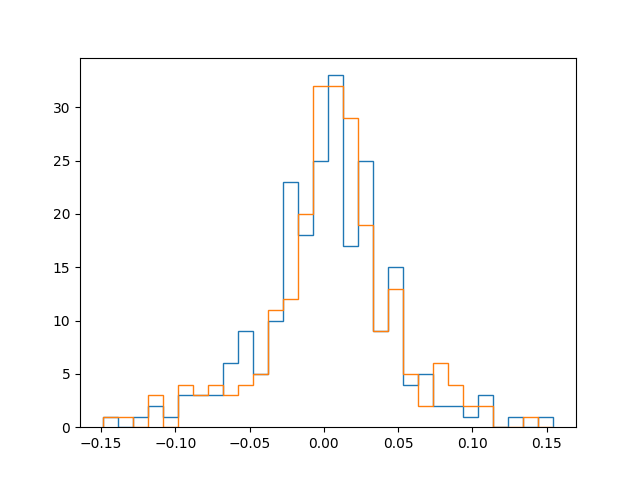
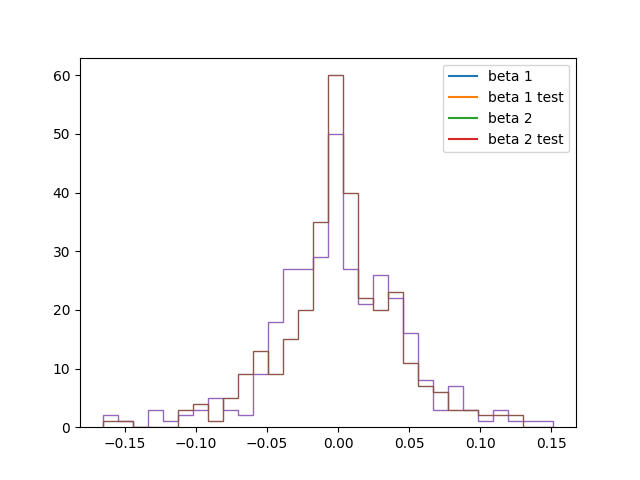
messed it up
should probably revert

diff --git a/CAPM Event Time WRDS Cloud/main.py b/CAPM Event Time WRDS Cloud/main.py
@@ -1,3 +1,4 @@
+#import total_market_trades_old as total_market_trades
 import total_market_trades
 import datetime
 import numpy as np
@@ -14,7 +15,7 @@ from scipy.stats import ttest_ind
 
 
 start_date = '1990-01-01'
-end_date = '2021-12-31'
+end_date = '2019-12-31'
 
 risk_free = pd.read_csv('rf daily rate.csv')
 risk_free = risk_free[(risk_free['date'] >= start_date) & (risk_free['date'] <= end_date)]
@@ -36,7 +37,7 @@ def calculate_beta(y, x):
 def fetch_stock_data(start_date, end_date):
     # Define the pickle file path
     pickle_file = 'stock_data.pickle'
-    num_stocks = 500 #should be 500 later
+    num_stocks = 100 #should be 500 later
 
     # Prepare the query
     query = f"""
@@ -73,8 +74,7 @@ def fetch_stock_data(start_date, end_date):
     SELECT 
         dsf.date, 
         dsf.permno, 
-        dsf.ret,
-        dsf.shrout * dsf.prc as market_cap
+        dsf.ret
     FROM 
         crsp.dsf as dsf
     JOIN 
@@ -92,13 +92,14 @@ def fetch_stock_data(start_date, end_date):
             # Check if the saved query matches the current query
             if saved_query == query:
                 print("Loading data from saved file.")
+                print(saved_data['data'])
                 return saved_data['data']
 
     # If no saved file or query doesn't match, execute the new query
     db = wrds.Connection(wrds_username='humzahm')
     data = db.raw_sql(query)
     data['ret'] = data['ret'].fillna(0)
-    print(data[data.isna().any(axis=1)])
+    #data['market_cap'] = data['market_cap'].fillna(1) #this might be bad
     print(data)
     # Save the new query and data to pickle
     with open(pickle_file, 'wb') as f:
@@ -125,6 +126,7 @@ def calculate_monthly_returns(stock_data, sp500_data, risk_free_rate_data, date_
         stock_data_permno = stock_data[stock_data['permno'] == permno]
 
         permno_dates = stock_data_permno['date']
+        #print(permno_dates)
         first_date_permno = permno_dates.min()
         last_date_permno = permno_dates.max()
 
@@ -148,11 +150,18 @@ def calculate_monthly_returns(stock_data, sp500_data, risk_free_rate_data, date_
                     'equity_returns_range1': [monthly_return1], 
                     'equity_returns_range2': [monthly_return2],
                     'sp500_return_range1': [sp500_return1],
-                    'sp500_return_range2': [sp500_return2],
-                    'market cap': [np.nanmean(filtered_stock_data1['market_cap'])]
+                    'sp500_return_range2': [sp500_return2]
                 })
                 final_results = pd.concat([final_results, row], ignore_index=True)
-
+            # else:
+            #     print("skipping")
+            #     print(start1)
+            #     print(end1)
+            #     print(start2)
+            #     print(end2)
+            #     print(first_date_permno)
+            #     print(last_date_permno)
+            #     print("-------------------")
     return final_results
 
 def calculate_kurtosis_skew(final_results):
@@ -190,6 +199,9 @@ def calculate_kurtosis_skew(final_results):
     print(f"Average Skew for Range 2: {avg_skew_range2}")
     print(f"T-statistic for Kurtosis: {t_stat_kurtosis}, P-value for Kurtosis (One Tailed): {p_value_kurtosis/2}")
     print(f"T-statistic for Skew: {t_stat_skew}, P-value for Skew (One Tailed): {p_value_skew/2}")
+
+def calculate_beta_NP(y, x):
+    return np.polyfit(x, y, 1)[0]
 
 def calculate_beta(y, x):
     y = np.array(y)
@@ -229,50 +241,63 @@ def calculate_betas_and_price_of_beta(monthly_returns):
     monthly_returns['beta_range1'] = np.nan
     monthly_returns['beta_range2'] = np.nan
     counter = 1
+
+    beta_range1_graph, beta_range1_test_graph, beta_range2_graph, beta_range2_test_graph = [], [], [], []
+    
     for permno in unique_permnos:
         print(counter)
         counter += 1
         data_permno = monthly_returns[monthly_returns['permno'] == permno]
 
         # Calculate beta for each range
+        #print("range: " + str(len(data_permno)))
         for i in range(len(data_permno)):
             if i >= 60:
                 y_range1 = data_permno['equity_returns_range1'].iloc[i-60:i]
                 x_range1 = data_permno['sp500_return_range1'].iloc[i-60:i]
                 beta_range1 = calculate_beta(y_range1, x_range1)
+                # print(data_permno.index[i])
+                # print(i)
+                # print(monthly_returns.loc[data_permno.index[i]])
                 monthly_returns.loc[data_permno.index[i], 'beta_range1'] = beta_range1
+                # print(monthly_returns.loc[data_permno.index[i]])
 
                 y_range2 = data_permno['equity_returns_range2'].iloc[i-60:i]
                 x_range2 = data_permno['sp500_return_range2'].iloc[i-60:i]
                 beta_range2 = calculate_beta(y_range2, x_range2)
                 monthly_returns.loc[data_permno.index[i], 'beta_range2'] = beta_range2
     
+    plt.plot(beta_range1_graph, label="beta 1")
+    plt.plot(beta_range1_test_graph, label="beta 1 test")
+    plt.plot(beta_range2_graph, label="beta 2")
+    plt.plot(beta_range2_test_graph, label="beta 2 test")
+    plt.legend()
+    plt.savefig("beta.png")
     price_of_beta_range1, price_of_beta_range2 = [], []
 
-    monthly_returns_filtered = monthly_returns[monthly_returns['sequence #'] >= 61]
+    monthly_returns_filtered = monthly_returns[monthly_returns['sequence #'] >= 6]
     monthly_returns_filtered = monthly_returns_filtered.dropna(subset=['beta_range1', 'beta_range2'])
-    print(monthly_returns_filtered)
+    #print(monthly_returns_filtered)
     unique_sequences = monthly_returns_filtered['sequence #'].unique()
-    
+    #print("unique sequences: " + str(len(unique_sequences)))
     for seq in unique_sequences:
         data_seq = monthly_returns[monthly_returns['sequence #'] == seq].dropna(subset=['beta_range1', 'beta_range2'])
         
         # For range 1
         x_range1 = data_seq['beta_range1']
         y_range1 = data_seq['equity_returns_range1']
-        weights = data_seq['market cap']
-        #price_of_beta_1 = calculate_beta(y_range1, x_range1)
-        price_of_beta_1 = calculate_weighted_beta(y_range1, x_range1, weights)
+        #weights = data_seq['market cap']
+        price_of_beta_1 = calculate_beta(y_range1, x_range1)
+        #price_of_beta_1 = calculate_weighted_beta(y_range1, x_range1, weights)
         price_of_beta_range1.append(price_of_beta_1)
 
         # For range 2
         x_range2 = data_seq['beta_range2']
         y_range2 = data_seq['equity_returns_range2']
-        weights = data_seq['market cap']
-        #price_of_beta_2 = calculate_beta(y_range2, x_range2)
-        price_of_beta_2 = calculate_weighted_beta(y_range2, x_range2, weights)
+        #weights = data_seq['market cap']
+        price_of_beta_2 = calculate_beta(y_range2, x_range2)
+        #price_of_beta_2 = calculate_weighted_beta(y_range2, x_range2, weights)
         price_of_beta_range2.append(price_of_beta_2)
-
     avg_range1 = sum(price_of_beta_range1) / len(price_of_beta_range1)
     avg_range2 = sum(price_of_beta_range2) / len(price_of_beta_range2)
     
@@ -290,13 +315,15 @@ print("running")
 
 stocks = fetch_stock_data('1990-01-01', '2021-12-30')
 print("stocks fetched")
+print(stocks[stocks.isna().any(axis=1)])
 
 monthly_day_ranges, event_month_ranges = total_market_trades.get_event_month_blocks()
 print("ranges calculated")
 
 monthly_returns = calculate_monthly_returns(stocks, market_returns, risk_free, monthly_day_ranges, event_month_ranges)
 print("monthly returns calculated")
-print(monthly_returns)
+#print(monthly_returns)
+print(monthly_returns[monthly_returns.isna().any(axis=1)])
 
 calculate_kurtosis_skew(monthly_returns)
 calculate_betas_and_price_of_beta(monthly_returns)

diff --git a/CAPM Event Time WRDS Cloud/total_market_trades_old.py b/CAPM Event Time WRDS Cloud/total_market_trades_old.py
@@ -61,17 +61,12 @@ def symmetric_smoothing(series, window, method='average'):
     return results
 
 def get_event_month_blocks():
-    start_date_data = '1987-01-01'
-    start_date = '1990-01-01'
-    end_date_data = '2021-12-30'
-    end_date = '2019-12-31'
-
     STOCK_NAME = "Market"
 
-    sql_query = f"""
+    sql_query = """
     SELECT date, SUM(NUMTRD) AS "total daily trades" 
     FROM crsp.dsf
-    WHERE date BETWEEN '{start_date_data}' AND '{end_date_data}'
+    WHERE date BETWEEN '1989-01-01' AND '2022-12-30'
     GROUP BY date
     ORDER BY date;
     """
@@ -83,21 +78,22 @@ def get_event_month_blocks():
     data = data[data["total daily trades"] > 1]
 
     data['month'] = data['date'].dt.strftime('%Y-%m')
-    data['year'] = data['date'].dt.strftime('%Y')
-    data['monthly avg trade'] = data.groupby("month")['total daily trades'].transform('mean')
+    #data['monthly avg trade'] = data.groupby("month")['total daily trades'].transform('mean')
+
+    #print(data)
 
     # Applying the function to a single column of the DataFrame
-    window_size = 1512  # Change this value as needed
+    window_size = 1008  # Change this value as needed
     data['trading moving average'] = symmetric_smoothing(data['total daily trades'], window_size, method='average')
     data['trading moving median'] = symmetric_smoothing(data['total daily trades'], window_size, method='median')
 
-    data = data[data['date'] <= end_date]
-    data = data[data['date'] >= start_date].reset_index(drop=True)
+    data = data[data['date'] < '2022-01-01']
+    data = data[data['date'] > '1989-12-30'].reset_index(drop=True)
 
-    plt.plot(data[['trading moving average']], color='red', label='Front and Back Mean')
-    plt.plot(data[['trading moving median']], color='yellow', label='Front and Back Median')
+    #plt.plot(data[['trading moving average']], color='red', label='Front and Back Mean')
+    #plt.plot(data[['trading moving median']], color='yellow', label='Front and Back Median')
 
-    y_data = data['monthly avg trade']
+    y_data = data['total daily trades']
     y_data_log = np.log(y_data)
     x_data = np.arange(1, y_data.shape[0]+1, 1).reshape(-1,1)
 
@@ -108,32 +104,33 @@ def get_event_month_blocks():
     y_model_log = lin_reg.predict(x_data)
     y_model = np.exp(y_model_log)
 
-    plt.scatter(x_data, y_data)
-    plt.plot(x_data, y_model, color="black", zorder=2, label='Exponential Model')
+    #plt.scatter(x_data, y_data)
+    #plt.plot(x_data, y_model, color="black", zorder=2, label='Exponential Model')
 
-    plt.ylabel("# of daily trades")
-    plt.xlabel("Day")
+    #plt.ylabel("# of daily trades")
+    #plt.xlabel("Day")
 
-    plt.title(STOCK_NAME + " number daily trades" + str(window_size) + " window size ")
-    plt.legend()
+    #plt.title(STOCK_NAME + " number daily trades")
+    #plt.legend()
+
+
+    sum_trades = np.sum(y_data)
+    num_days = y_data.shape[0]
 
     normalized_trading = (y_data / y_model).to_numpy()
 
-    trading_moving_average = (data['total daily trades'] / data['trading moving average']).to_numpy()
+    normalized_trading_2 = (data['total daily trades'] / data['trading moving average']).to_numpy()
 
-    trading_moving_median = (data['total daily trades'] / data['trading moving median']).to_numpy()
+    normalized_trading_3 = (data['total daily trades'] / data['trading moving median']).to_numpy()
 
     normalized_trading_scaled = normalized_trading * normalized_trading.shape[0]/np.sum(normalized_trading)
-    normalized_trading_scaled_2 = trading_moving_average * trading_moving_average.shape[0]/np.sum(trading_moving_average)
-    normalized_trading_scaled_3 = trading_moving_median * trading_moving_median.shape[0]/np.sum(trading_moving_median)
+    normalized_trading_scaled_2 = normalized_trading_2 * normalized_trading_2.shape[0]/np.sum(normalized_trading_2)
+    normalized_trading_scaled_3 = normalized_trading_3 * normalized_trading_3.shape[0]/np.sum(normalized_trading_3)
 
     """PICK WHICH ONE I WANT -> no comment, exponential, #2, average, #3, median"""
     normalized_trading_scaled = normalized_trading_scaled_2 #mean
 
-    #num_events = len(data.groupby('month')['total daily trades'].sum())
-    num_events = len(data.groupby('year')['total daily trades'].sum())
-    print(num_events)
-    print("num events should be 30")
+    num_events = len(data.groupby('month')['total daily trades'].sum())
     normalized_days_per_month = np.sum(normalized_trading_scaled)/(num_events) #equal to days per month
     new_blocks = np.empty(num_events, dtype=int)
     event_month_lengths = np.empty(num_events)
@@ -149,7 +146,6 @@ def get_event_month_blocks():
             event_month_lengths[counter] = othercounter
             counter += 1
             othercounter = 0
-            plt.axvline(x=i, color='b', linestyle='--')
     #last one is end 
     new_blocks[-1] = normalized_trading_scaled.size-1
     event_month_lengths[-1] = num_events*normalized_days_per_month - np.sum(event_month_lengths[:-1])
@@ -165,32 +161,18 @@ def get_event_month_blocks():
     ########
     #plt.show()
     #print(new_blocks)
-    plt.savefig("total_market_trades.png")
-    plt.figure()
     first_last_pairs_array_event_months = np.empty(num_events, dtype=object)
     first_last_pairs_time_months = []
 
-    # for month in data['month'].unique():
-    #     # Filtering the data for the current month
-    #     monthly_data = data[data['date'].dt.to_period('M') == month]
-        
-    #     # Getting the first and last date of the month
-    #     #first_date = monthly_data['date'].iloc[0].strftime('%Y-%m-%d')
-    #     #last_date = monthly_data['date'].iloc[-1].strftime('%Y-%m-%d')
-    #     first_date = monthly_data['date'].iloc[0]
-    #     last_date = monthly_data['date'].iloc[-1]
-
-    #     # Adding the pair to the list
-    #     first_last_pairs_time_months.append([first_date, last_date])
-    for year in data['year'].unique():
+    for month in data['month'].unique():
         # Filtering the data for the current month
-        yearly_data = data[data['date'].dt.to_period('Y') == year]
+        monthly_data = data[data['date'].dt.to_period('M') == month]
         
         # Getting the first and last date of the month
         #first_date = monthly_data['date'].iloc[0].strftime('%Y-%m-%d')
         #last_date = monthly_data['date'].iloc[-1].strftime('%Y-%m-%d')
-        first_date = yearly_data['date'].iloc[0]
-        last_date = yearly_data['date'].iloc[-1]
+        first_date = monthly_data['date'].iloc[0]
+        last_date = monthly_data['date'].iloc[-1]
 
         # Adding the pair to the list
         first_last_pairs_time_months.append([first_date, last_date])
